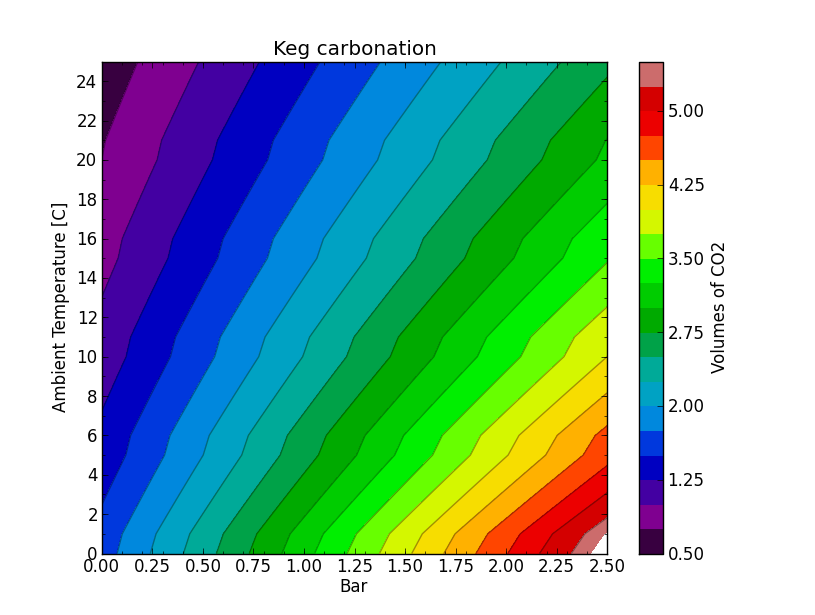
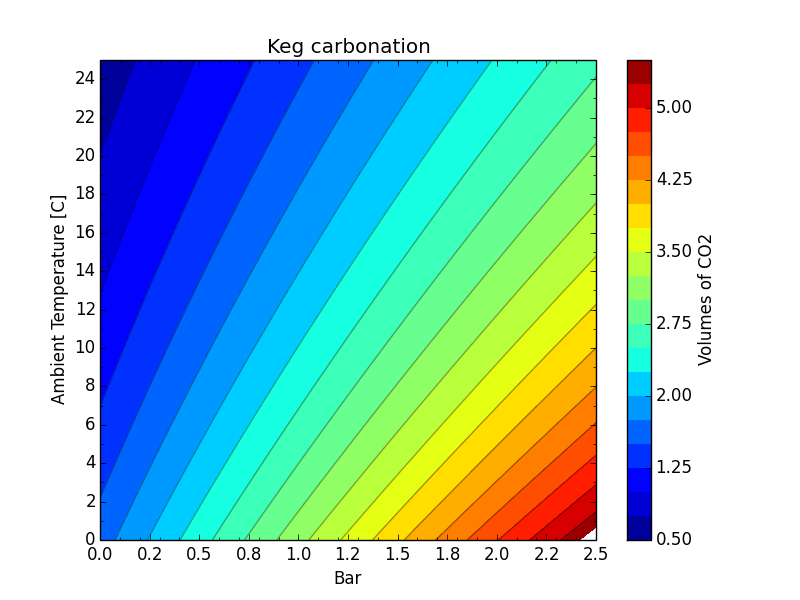
Get rid of the wavy pattern, updated image

diff --git a/main.py b/main.py
@@ -9,7 +9,7 @@ def bar_from_temp_and_volumes(tc, vols):
     Most other beers = 2.4 - 2.85
     High-carbonation beers = 2.85 - 2.95"""
     # TODO: native calculation in degrees C
-    tf = (tc * 9/5) + 32  # temp in F
+    tf = (tc * 9.0/5.0) + 32.0  # temp in F
     p = -16.6999 - (0.0101059*tf) + (0.00116512*tf*tf) + (0.173354*tf*vols) + (4.24267*vols)-(0.0684226*vols*vols)
     bar_setting = p/14.5037738
     return bar_setting
